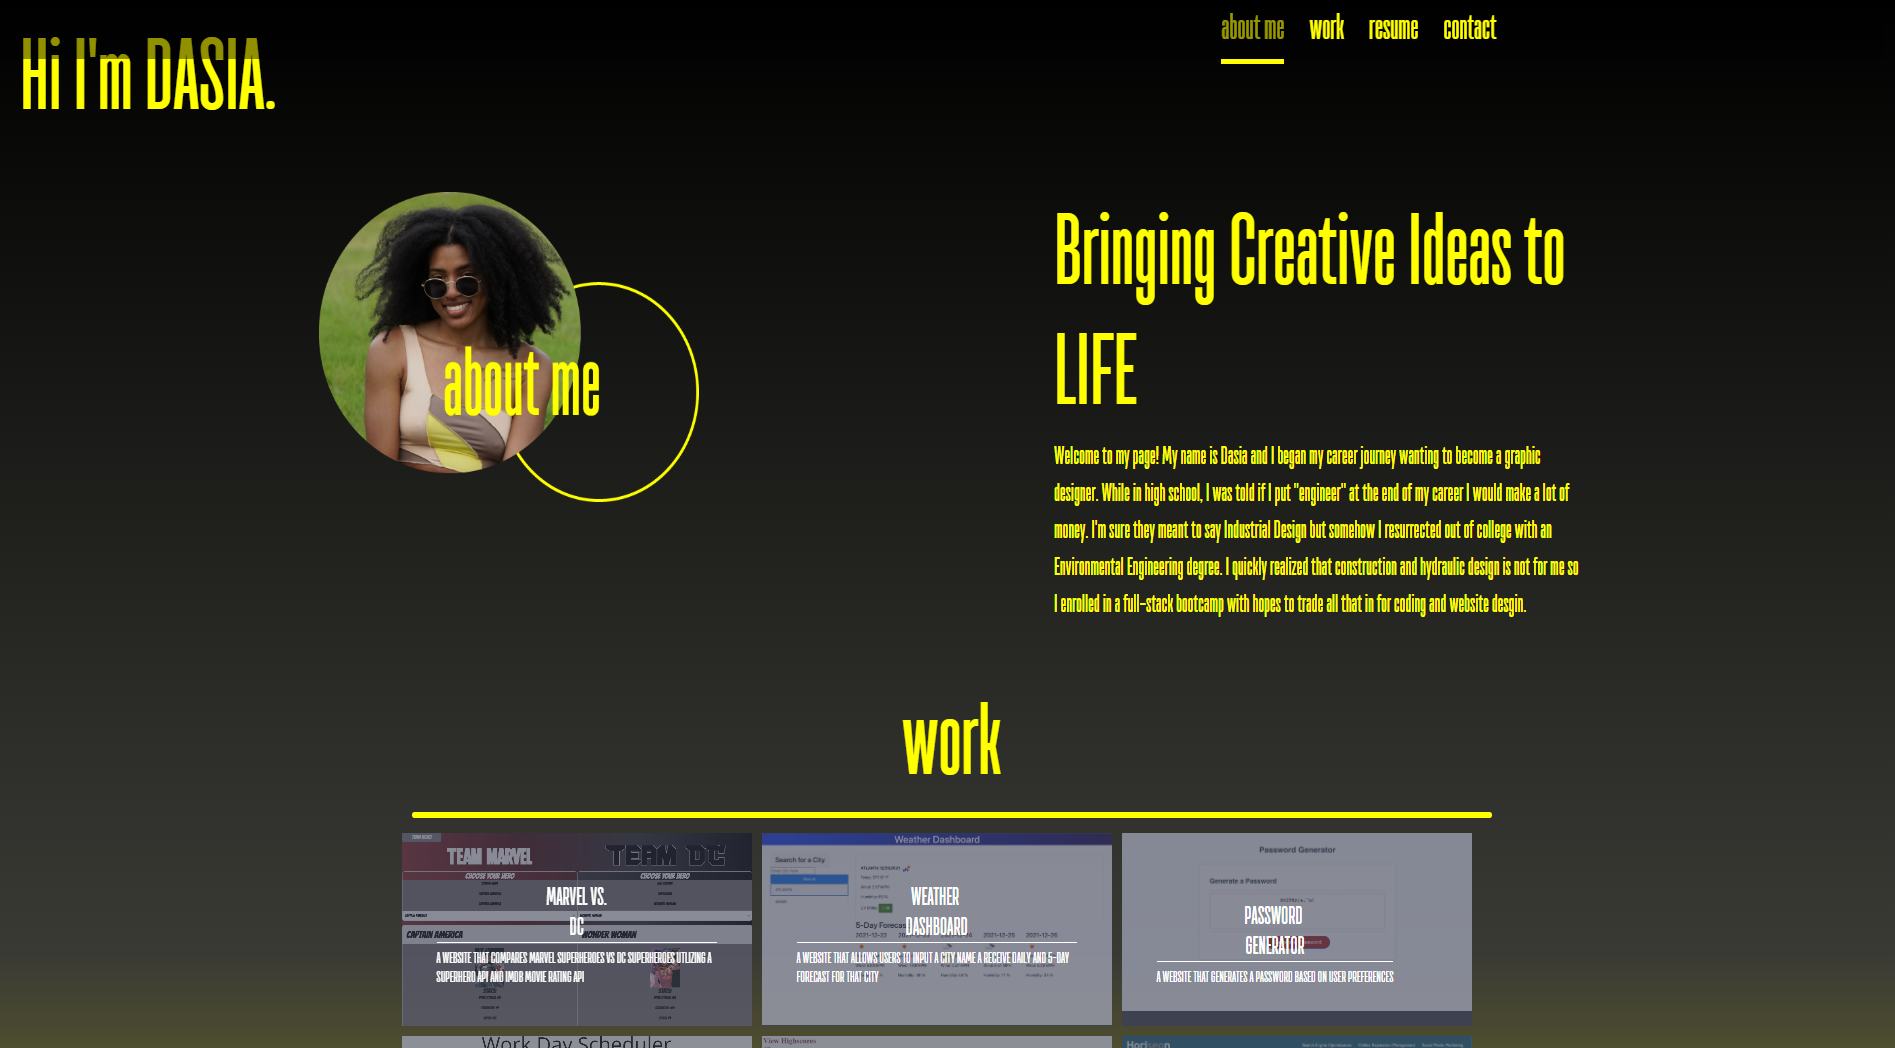
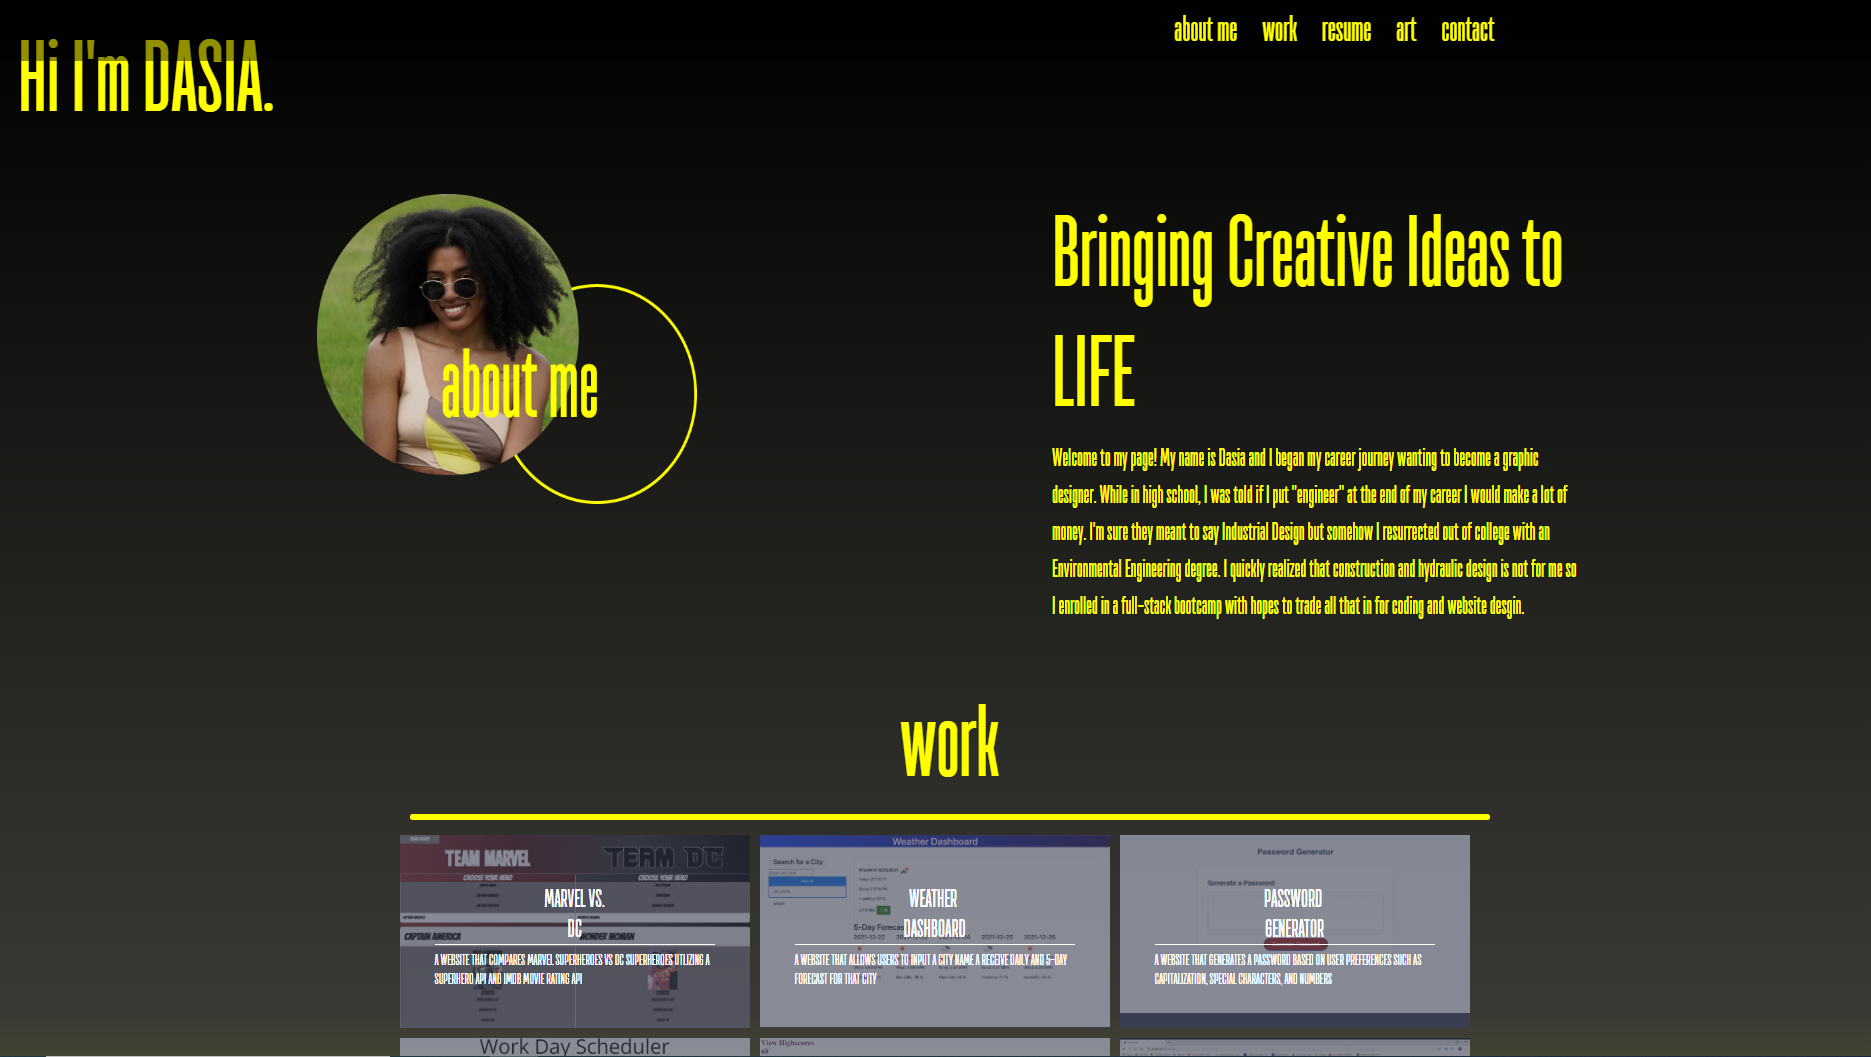
Added most recent project. Updated card styling

diff --git a/index.html b/index.html
@@ -55,7 +55,18 @@
                 <hr id="workHr" class="rounded">
             </div>
                 <div class=" container text-center row">
-                   <div class="col-lg-4 col-md-4 col-sm-6 col-xs-12 container_img ">
+                    <div class="col-lg-4 col-md-4 col-sm-6 col-xs-12 container_img ">
+                        <div class="see_more text-center">
+                            <a href="https://github.com/jing-liu-778/Flix-and-Spill" target="_blank"><span id="click" class="lnr lnr-code"></span> </a>
+                            <a href="https://shielded-gorge-65326.herokuapp.com/" target="_blank"><span id="click" class="lnr lnr-rocket"></span></a>
+                        </div>
+                        <article class="text-left">
+                            <h2>'Flix and Spill</h2>
+                            <h4 class=hBody>A website that allow users to leave, comment, and like reviews for Netflix shows and movies</h4>
+                        </article>
+                        <img src="./Assets/images/FlixAndSpill.PNG" alt="Flix and spill homepage">
+                   </div>
+                    <div class="col-lg-4 col-md-4 col-sm-6 col-xs-12 container_img ">
                         <div class="see_more text-center">
                             <a href="https://github.com/dasiasmith/Marvel-Vs-DC" target="_blank"><span id="click" class="lnr lnr-code"></span> </a>
                             <a href="https://dasiasmith.github.io/Marvel-Vs-DC/" target="_blank"><span id="click" class="lnr lnr-rocket"></span></a>
@@ -83,7 +94,7 @@
                             <a href="https://dasiasmith.github.io/Password-Generator/" target="_blank"><span id="click" class="lnr lnr-rocket"></span></a>
                         </div>
                         <article class="text-left">
-                            <h2>PASSWORD <br>GENERATOR</h2>
+                            <h2>PASSWORD GENERATOR</h2>
                             <h4 class=hBody>A website that generates a passwored based on user preferences such as capitalization, special character, and numbers</h4>
                         </article>
                         <img src="./Assets/images/Password Generator.png" alt="Password generator displaying new user password">

diff --git a/Assets/css/style.css b/Assets/css/style.css
@@ -71,7 +71,7 @@ h3 {
 }
 
 h4 {
-    font-size: 3.1rem;
+    font-size: 2.8rem;
 }
 
 h5 {
